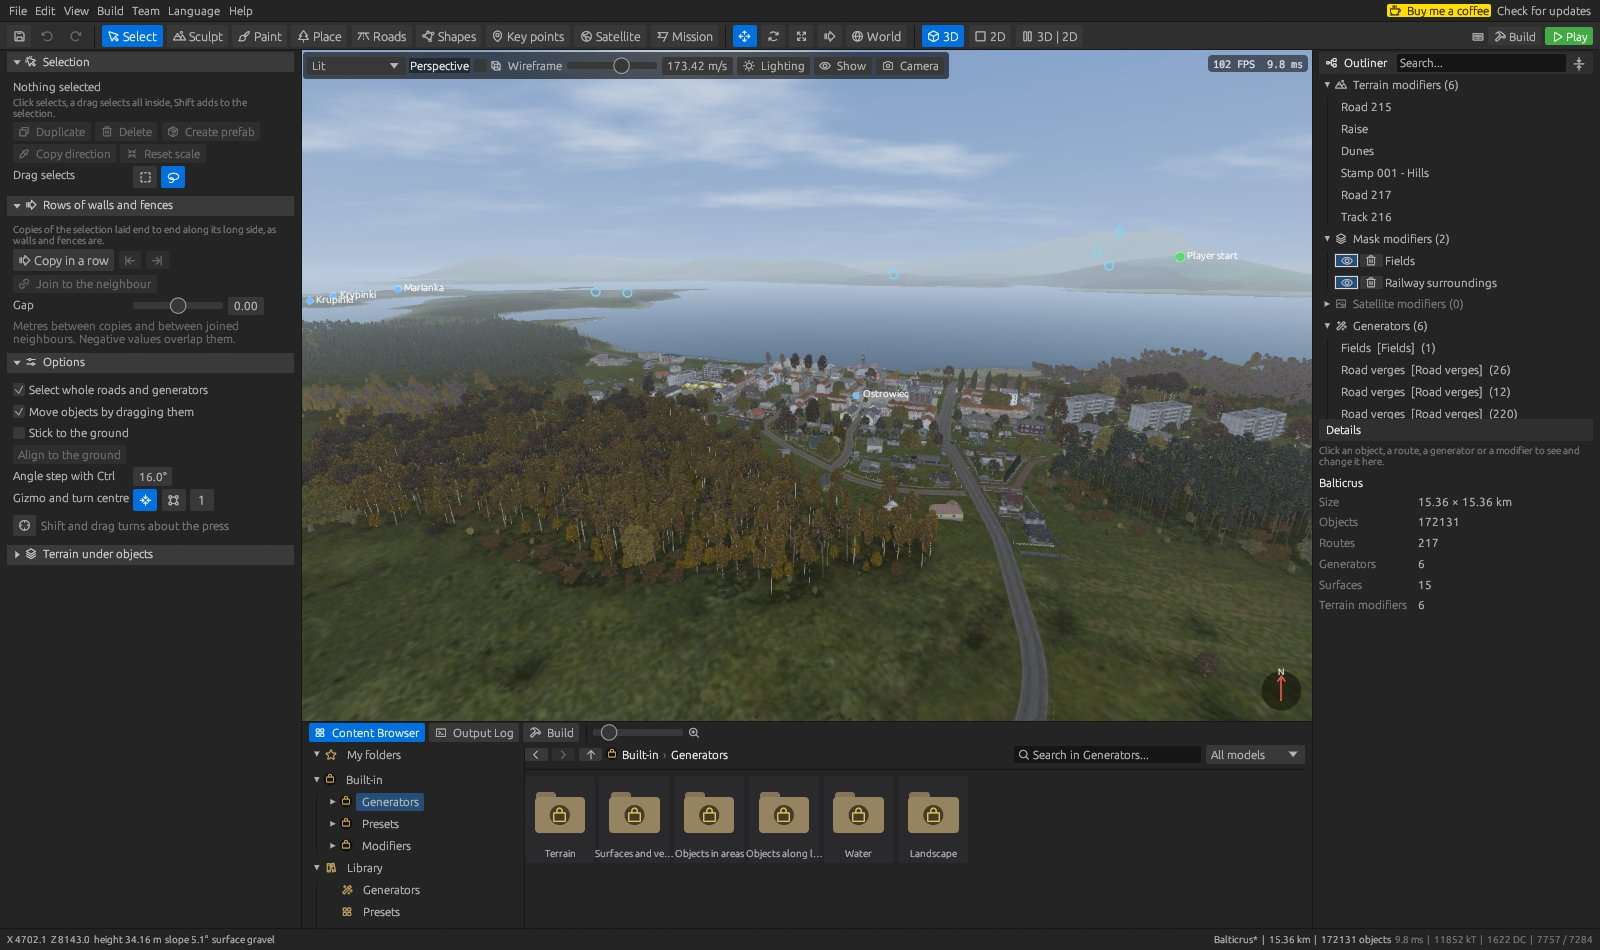
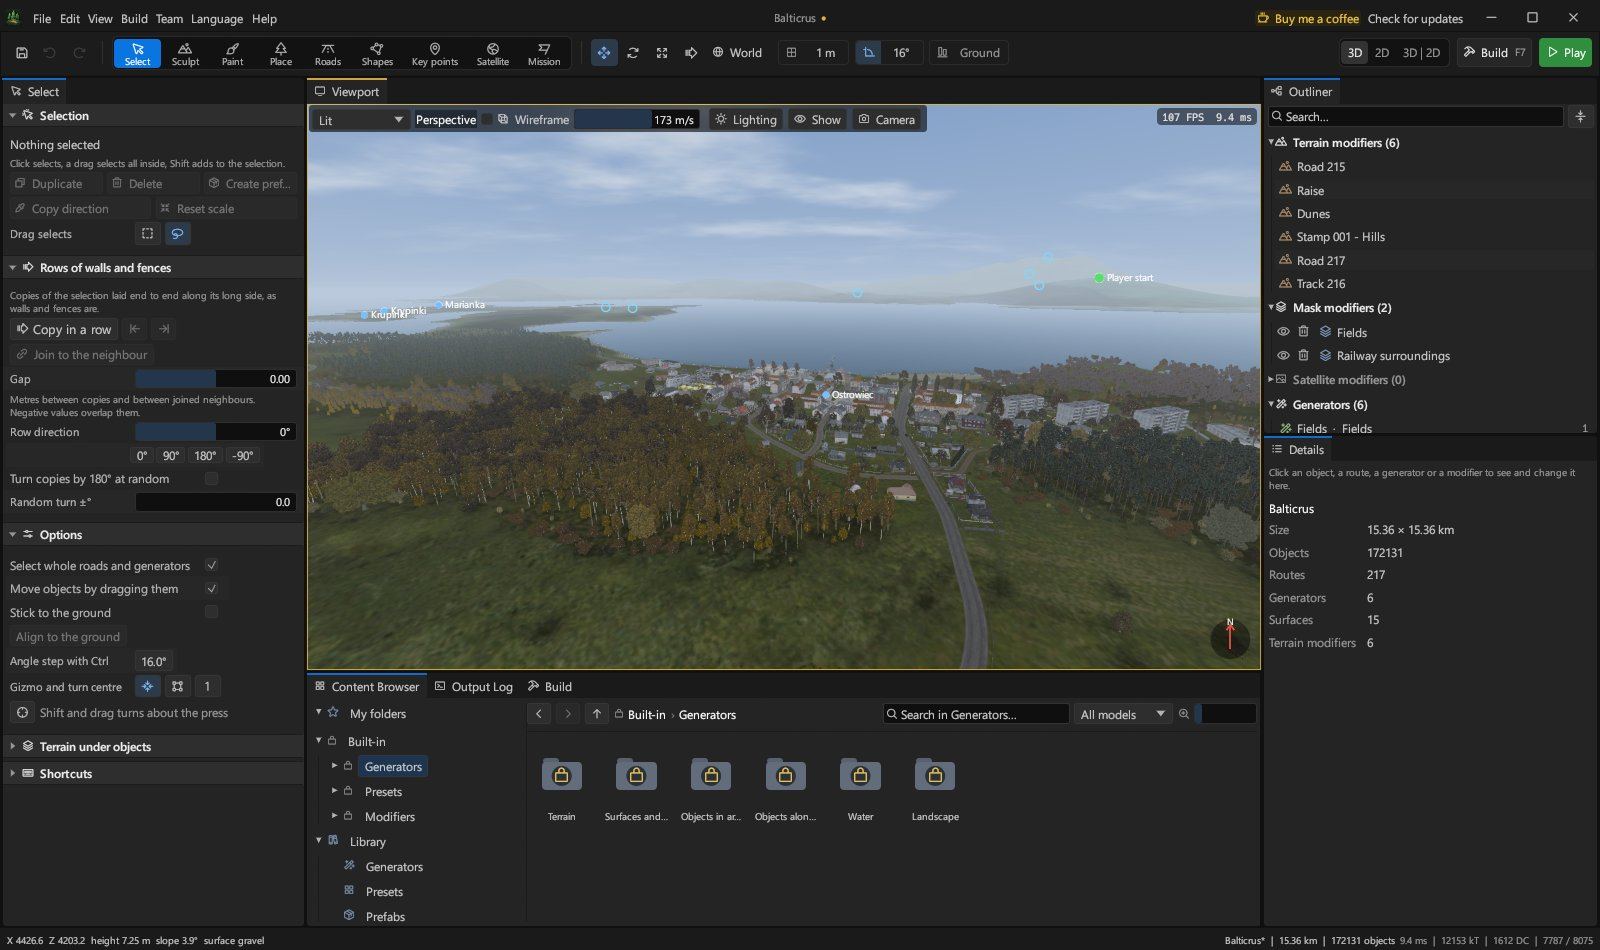
docs: screenshots of the new look and one of the forest generator; fix: values that round to zero show no minus, a long status message keeps to one line

diff --git a/crates/dz-editor/src/theme.rs b/crates/dz-editor/src/theme.rs
@@ -238,7 +238,12 @@ pub fn vector_row(ui: &mut egui::Ui, label: &str, fields: &mut [(&mut f32, f64, 
         for (v, speed, color, tip) in fields.iter_mut() {
             // A turned and turned back value may be -0, shown as "-0.0"; it is the same as 0.
             if **v == 0.0 { **v = 0.0; }
-            let r = ui.add_sized([width, 22.0], egui::DragValue::new(&mut **v).speed(*speed).max_decimals(3));
+            // Shown with up to three decimals, and without a minus for what rounds to zero.
+            let r = ui.add_sized([width, 22.0], egui::DragValue::new(&mut **v).speed(*speed).custom_formatter(|n, _| {
+                let s = format!("{n:.3}");
+                let s = s.trim_end_matches('0').trim_end_matches('.').to_string();
+                if s == "-0" { "0".to_string() } else { s }
+            }));
             let bar = egui::Rect::from_min_size(r.rect.min, egui::vec2(3.0, r.rect.height()));
             ui.painter().rect_filled(bar, CornerRadius { nw: 3, sw: 3, ne: 0, se: 0 }, *color);
             done |= r.drag_stopped() || r.lost_focus();

diff --git a/crates/dz-editor/src/panels.rs b/crates/dz-editor/src/panels.rs
@@ -683,7 +683,13 @@ fn status_bar(app: &mut App, ctx: &egui::Context) {
                 ui.add(egui::ProgressBar::new(task.job.progress()).desired_width(220.0).text(format!("{}: {}", task.title, task.job.current_stage())));
                 cancel = ui.small_button(t("Cancel")).clicked();
             } else {
-                ui.label(RichText::new(&app.status).small());
+                // One line: the first of the message, cut to the room left; all of it under the pointer.
+                let first = app.status.lines().next().unwrap_or_default();
+                let room = ui.available_width() * 0.5;
+                ui.scope(|ui| {
+                    ui.set_max_width(room);
+                    ui.add(egui::Label::new(RichText::new(first).small()).truncate()).on_hover_text(&app.status);
+                });
             }
             if cancel {
                 if let Some(task) = &app.task { task.job.cancel(); }

diff --git a/CHANGELOG.md b/CHANGELOG.md
@@ -1,5 +1,65 @@
 # Changelog
 
+## 0.2.9
+
+### New
+
+- **A new look.** Darker panels on a darker ground, one blue for what is active, the Segoe UI
+  font of Windows, and a thin yellow frame round the view.
+- **Every panel is a tab.** Drag a tab by its title onto another panel to put them together, onto
+  the edge of a panel to split it, or out of the window to let it float. Right click a tab to close
+  or float it. **View > Window layout** opens closed panels again and has **Default layout**. Your
+  layout is kept for the next start.
+- **The editor draws its own title bar**, with the menus, the name of the project (a yellow dot
+  while it has unsaved changes) and the buttons of the window. Drag it to move the window, double
+  click it to fill the screen; the edges of the window resize it.
+  `Edit > Settings > Display > Own title bar` brings back the usual Windows title bar.
+- **A new toolbar:** the modes as icons over their names, the gizmo, the views as 3D / 2D / 3D | 2D,
+  and **Build** (with its key) and **Play** at the right.
+- **Snap to the grid.** A new switch in the toolbar: while it is on, moving along an arrow of the
+  gizmo or over the ground goes by whole steps of the grid (1 m at first; the step can be changed
+  next to the switch). Without it, Ctrl does the same while held, as before. The angle step and
+  **Ground** (objects stick to the ground) sit next to it.
+- **Tidier panels:**
+  - Numbers are dark fields that fill with blue up to their value: drag across a field to change
+    it, or click it to type a value.
+  - Names sit in one column and values in the next; every other row is a shade lighter.
+    Switches are in the column of values.
+  - The tools of Sculpt, Shapes, Roads and Key points are tiles with their picture over their name.
+  - The line telling what a tool does is one quiet line; the whole text shows under the pointer
+    (or in full with *Show key help* on).
+- **Outliner:** rows as wide as the panel with an icon in the colour of their kind (roads,
+  generators, layers, models...), the number of objects at the right, and icons to show and edit
+  layers. The team filter sits in the bar over it.
+- **Details:** the model with its folder at the top, then **Transform** with Location, Rotation and
+  Scale as X, Y and Z fields in the colours of the axes, then **Placement** (layer, ground).
+- **Paint:** the brush shows the colour, name and number of the layer it paints, with the
+  eyedropper beside it. Shape, Spray and where the strokes go are rows of their own.
+- **Content Browser:** quieter blue-grey folders, names cut to the width of their tile, the tile
+  size next to the search, and the bar over it all on one line.
+- The status bar tells when the project was last saved.
+
+### Fixed
+
+- **The mask colour of a surface layer can be changed again.** The colour button in the menu of a
+  layer closed the menu as soon as you clicked the picker. The picker is now in a submenu of its
+  own, and the colour square at the top of the Paint panel opens it too.
+- **A changed mask colour can be undone** with Ctrl+Z.
+- A warning shows when two surface layers have the same colour, which the mask of the map cannot
+  tell apart.
+- "1 objects selected" reads "1 object selected", and values that round to zero no longer show a
+  minus ("-0.0", "-0.000").
+- A long message keeps to one line of the status bar; all of it shows under the pointer.
+- The README and the guide show the new look, with a new picture of the forest generator.
+
+### Good to know
+
+- Projects are saved as before: projects of 0.2.9 open in 0.2.8 and the other way round.
+- The window layout of older versions is read once: panels you had on another side start there.
+  An older version still opens with its own layout, ignoring the tabs.
+- In full screen (F11) the panels still slide in from the edges as before; tabs floated out of the
+  window are not shown there.
+
 ## 0.2.8
 
 ### New

diff --git a/docs/guide.md b/docs/guide.md
@@ -8,7 +8,7 @@ For the server mission see [mission-editor.md](mission-editor.md), for several p
 
 ## The window
 
-* **Title bar**: the editor draws its own, as Workbench does, with the menus in it: File, Edit,
+* **Title bar**: the editor draws its own, with the menus in it: File, Edit,
   View, Build, Team, Language and Help, the name of the project in the middle (a yellow dot while it
   has unsaved changes), *Check for updates* and the buttons of the window. Drag it to move the window,
   double click it to fill the screen. `Edit > Settings > Display > Own title bar` brings back the
@@ -25,7 +25,7 @@ For the server mission see [mission-editor.md](mission-editor.md), for several p
 * **Status bar**: the position, height, slope and surface under the pointer, the map and the number
   of objects, and what the renderer draws.
 
-Every panel is a tab, as in Unreal and Workbench. Drag a tab by its title onto another panel to put
+Every panel is a tab. Drag a tab by its title onto another panel to put
 them together, onto the edge of a panel to split it, or out of the window to let it float. Right
 click a tab to close it or float it. **View > Window layout** opens closed panels again and has
 **Default layout**, which puts everything back. The layout is kept for the next start.
@@ -287,6 +287,8 @@ The Content Browser at the bottom holds:
 A generator is dropped on a shape, a road or the map (or select the shape first and double-click
 the generator). It appears in the outliner, where its settings can be changed and it can be run
 again.
+
+![A forest generator and its settings in the Details](screenshots/forest.jpg)
 
 The rules of Surface painting and of the Scatter generator have **More conditions** besides height
 and slope: hollows and ridges (how far the ground lies below the ground round it), wetness (where

diff --git a/README.md b/README.md
@@ -46,6 +46,8 @@ The [editor guide](docs/guide.md) describes every tab, the views and the menus i
 | **Generators** in the Content Browser | **Key points** imported from Terrain Builder |
 | ![The mission editor](docs/screenshots/mission.jpg) | ![A stone bridge over a river](docs/screenshots/bridge.jpg) |
 | **Mission editor** with the loot table of a mission | **Bridges and rivers** from a Terrain Builder project |
+| ![A forest generator](docs/screenshots/forest.jpg) | ![A row of walls](docs/screenshots/rows.jpg) |
+| **Forest generator** filling an area, its settings in the Details | **Rows of walls and fences** laid with the copy gizmo |
 
 *Screenshots show the Balticrus map, imported from its Terrain Builder project.*
 
